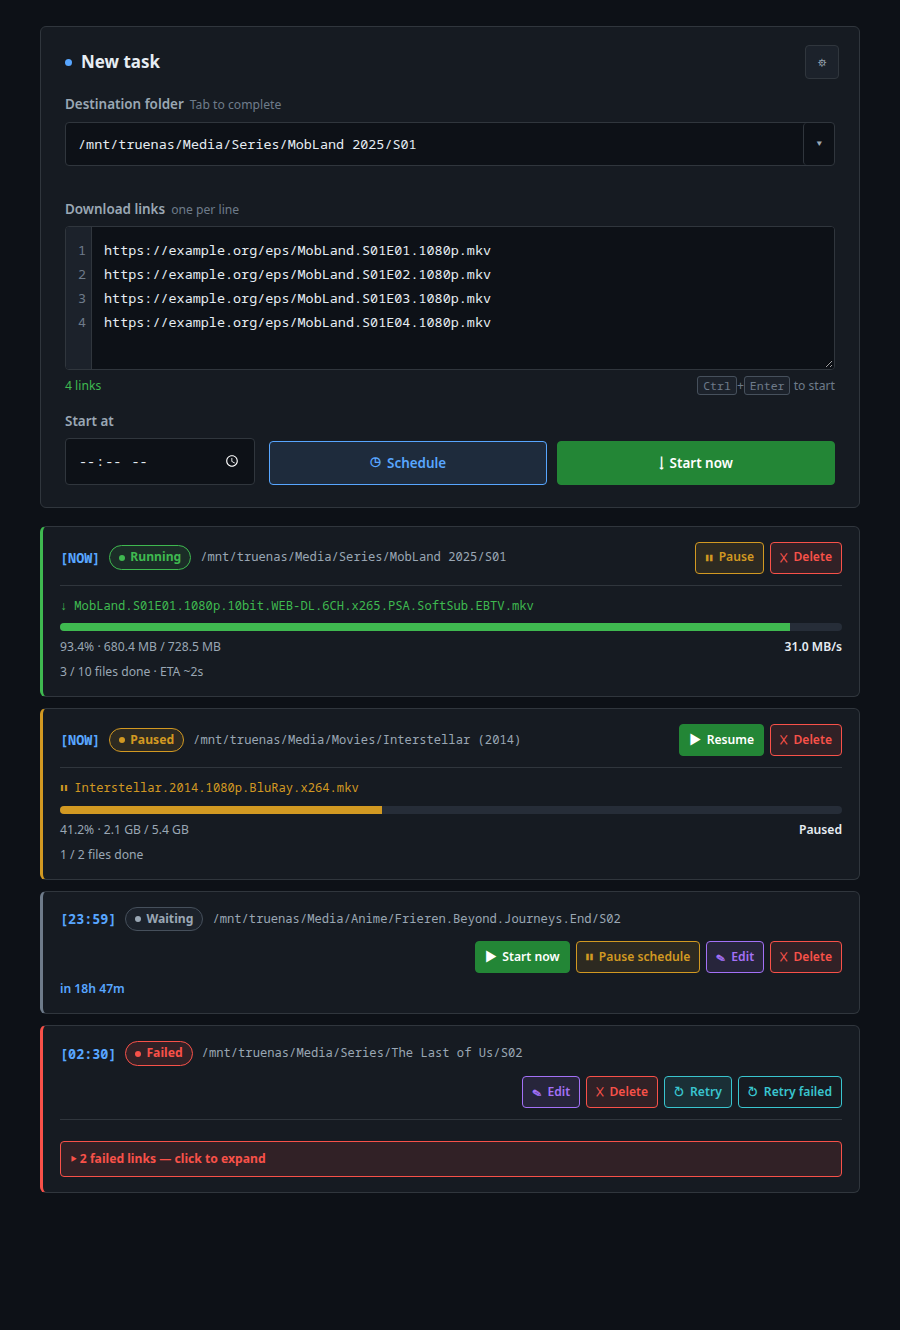
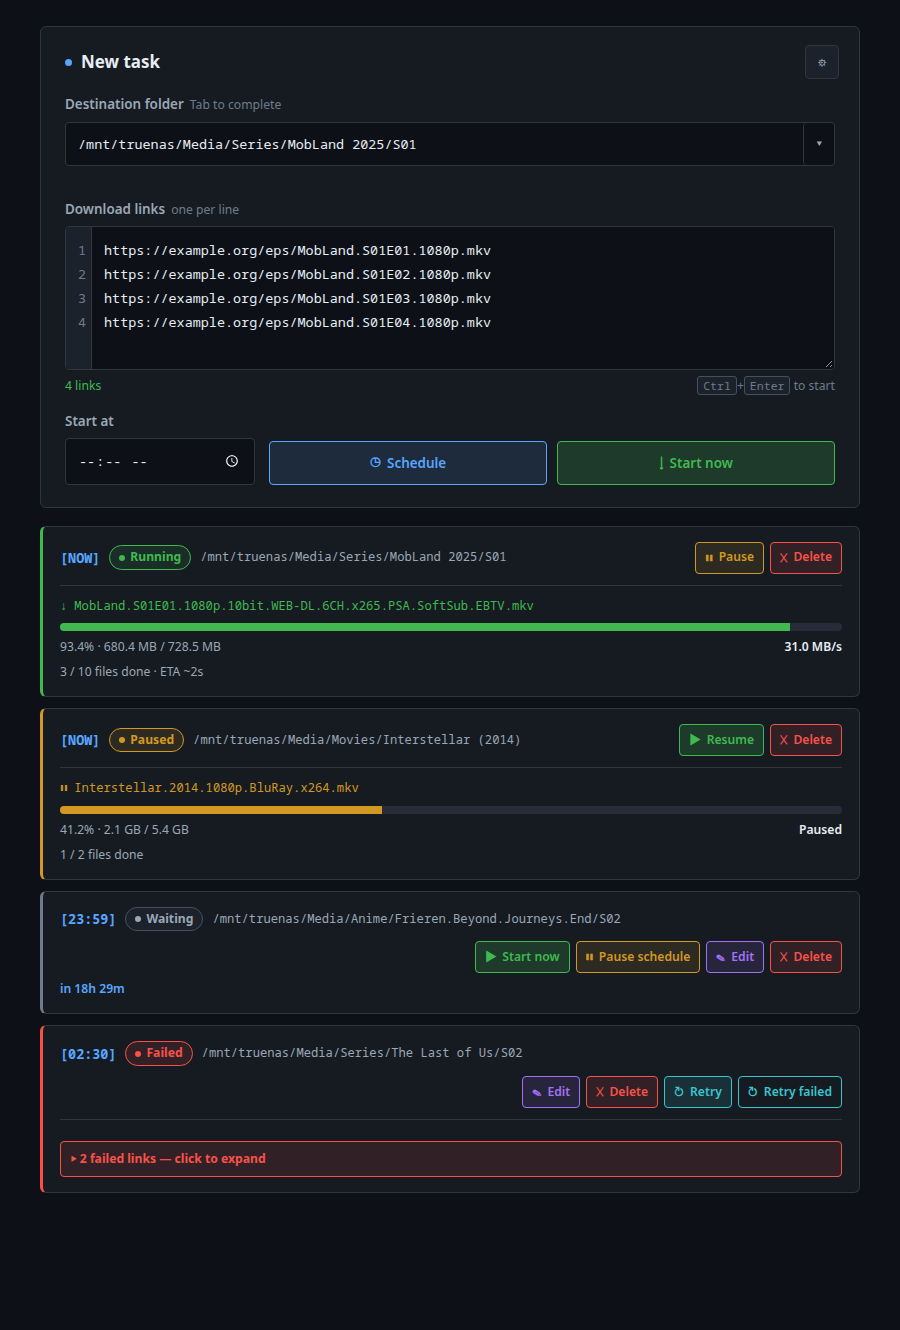
Restyle Start now buttons to match outlined theme
Use the same tinted background, colored border/text, and solid hover fill
as the other themed buttons; refresh preview screenshot.

Changed region(s): [[0.6222, 0.3083, 0.9333, 0.3699], [0.7467, 0.5241, 0.8711, 0.5857], [0.5289, 0.709, 0.6533, 0.7398]]

diff --git a/aria2-webui.py b/aria2-webui.py
@@ -710,7 +710,7 @@ HTML_TEMPLATE = r"""
             --text:#e6edf3; --muted:#9aa7b4; --faint:#6e7b8a;
             --accent:#58a6ff; --accent-hover:#79b8ff; --accent-text:#0b1622; --accent-tint:rgba(88,166,255,.12);
             --success:#3fb950; --success-tint:rgba(63,185,80,.12);
-            --success-btn:#238636; --success-btn-hover:#2ea043;
+            --success-btn-tint:rgba(63,185,80,.2); --success-btn:#238636; --success-btn-hover:#2ea043;
             --warn:#d29922; --warn-tint:rgba(210,153,34,.12);
             --danger:#f85149; --danger-tint:rgba(248,81,73,.12);
             --violet:#a371f7; --violet-tint:rgba(163,113,247,.12);
@@ -728,7 +728,7 @@ HTML_TEMPLATE = r"""
                 --text:#1f2328; --muted:#57606a; --faint:#7d8590;
                 --accent:#0969da; --accent-hover:#0550ae; --accent-text:#ffffff; --accent-tint:rgba(9,105,218,.09);
                 --success:#1a7f37; --success-tint:rgba(26,127,55,.09);
-                --success-btn:#1f883d; --success-btn-hover:#1a7f37;
+                --success-btn-tint:rgba(26,127,55,.15); --success-btn:#1f883d; --success-btn-hover:#1a7f37;
                 --warn:#9a6700; --warn-tint:rgba(154,103,0,.09);
                 --danger:#cf222e; --danger-tint:rgba(207,34,46,.09);
                 --violet:#8250df; --violet-tint:rgba(130,80,223,.09);
@@ -904,8 +904,8 @@ HTML_TEMPLATE = r"""
         .btn--primary:hover { background:var(--accent-hover); }
         .btn--accent { background:var(--accent-tint); color:var(--accent); border-color:var(--accent); }
         .btn--accent:hover { background:var(--accent); color:var(--accent-text); }
-        .btn--start { background:var(--success-btn); border-color:var(--success-btn); color:#fff; }
-        .btn--start:hover { background:var(--success-btn-hover); border-color:var(--success-btn-hover); }
+        .btn--start { background:var(--success-btn-tint); color:var(--success); border-color:var(--success); }
+        .btn--start:hover { background:var(--success-btn); color:#fff; border-color:var(--success-btn); }
         .btn--edit { background:var(--violet-tint); color:var(--violet); border-color:var(--violet); }
         .btn--edit:hover { background:var(--violet); color:#fff; }
         .btn--retry { background:var(--cyan-tint); color:var(--cyan); border-color:var(--cyan); }
